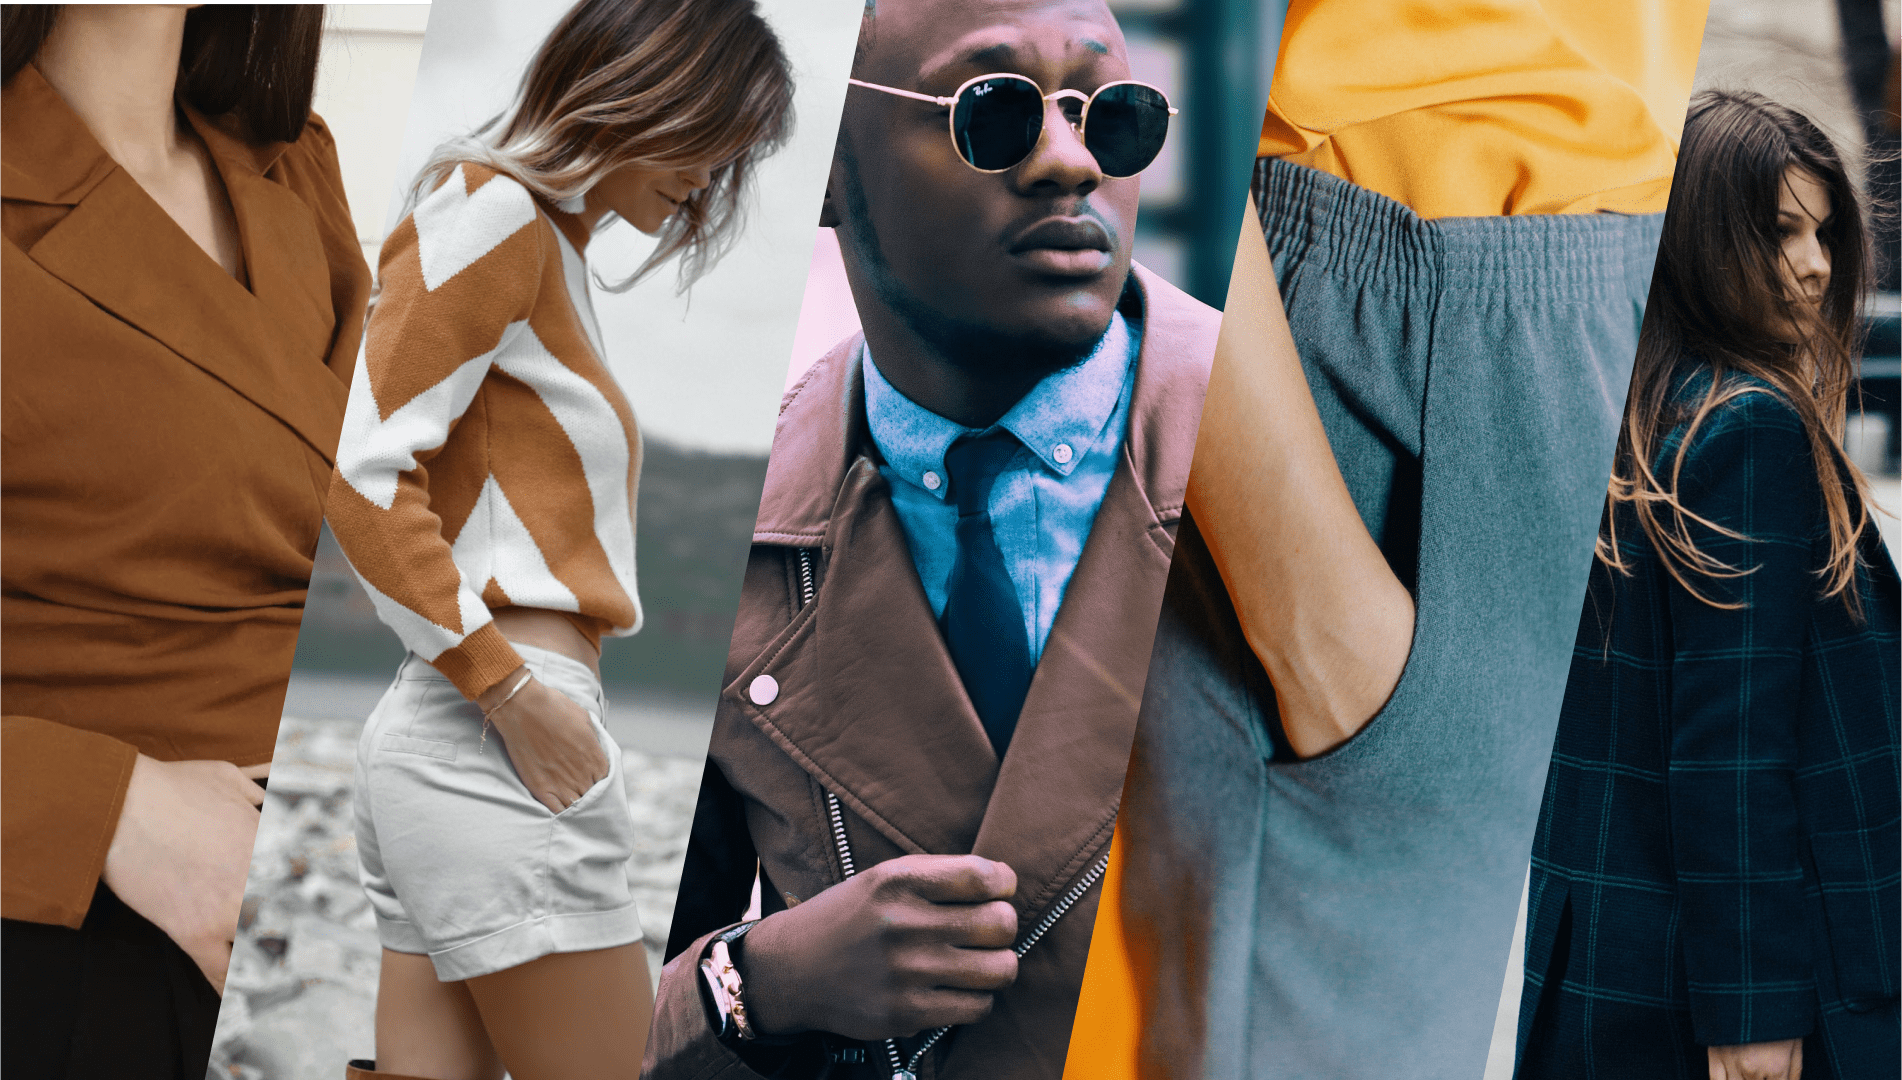
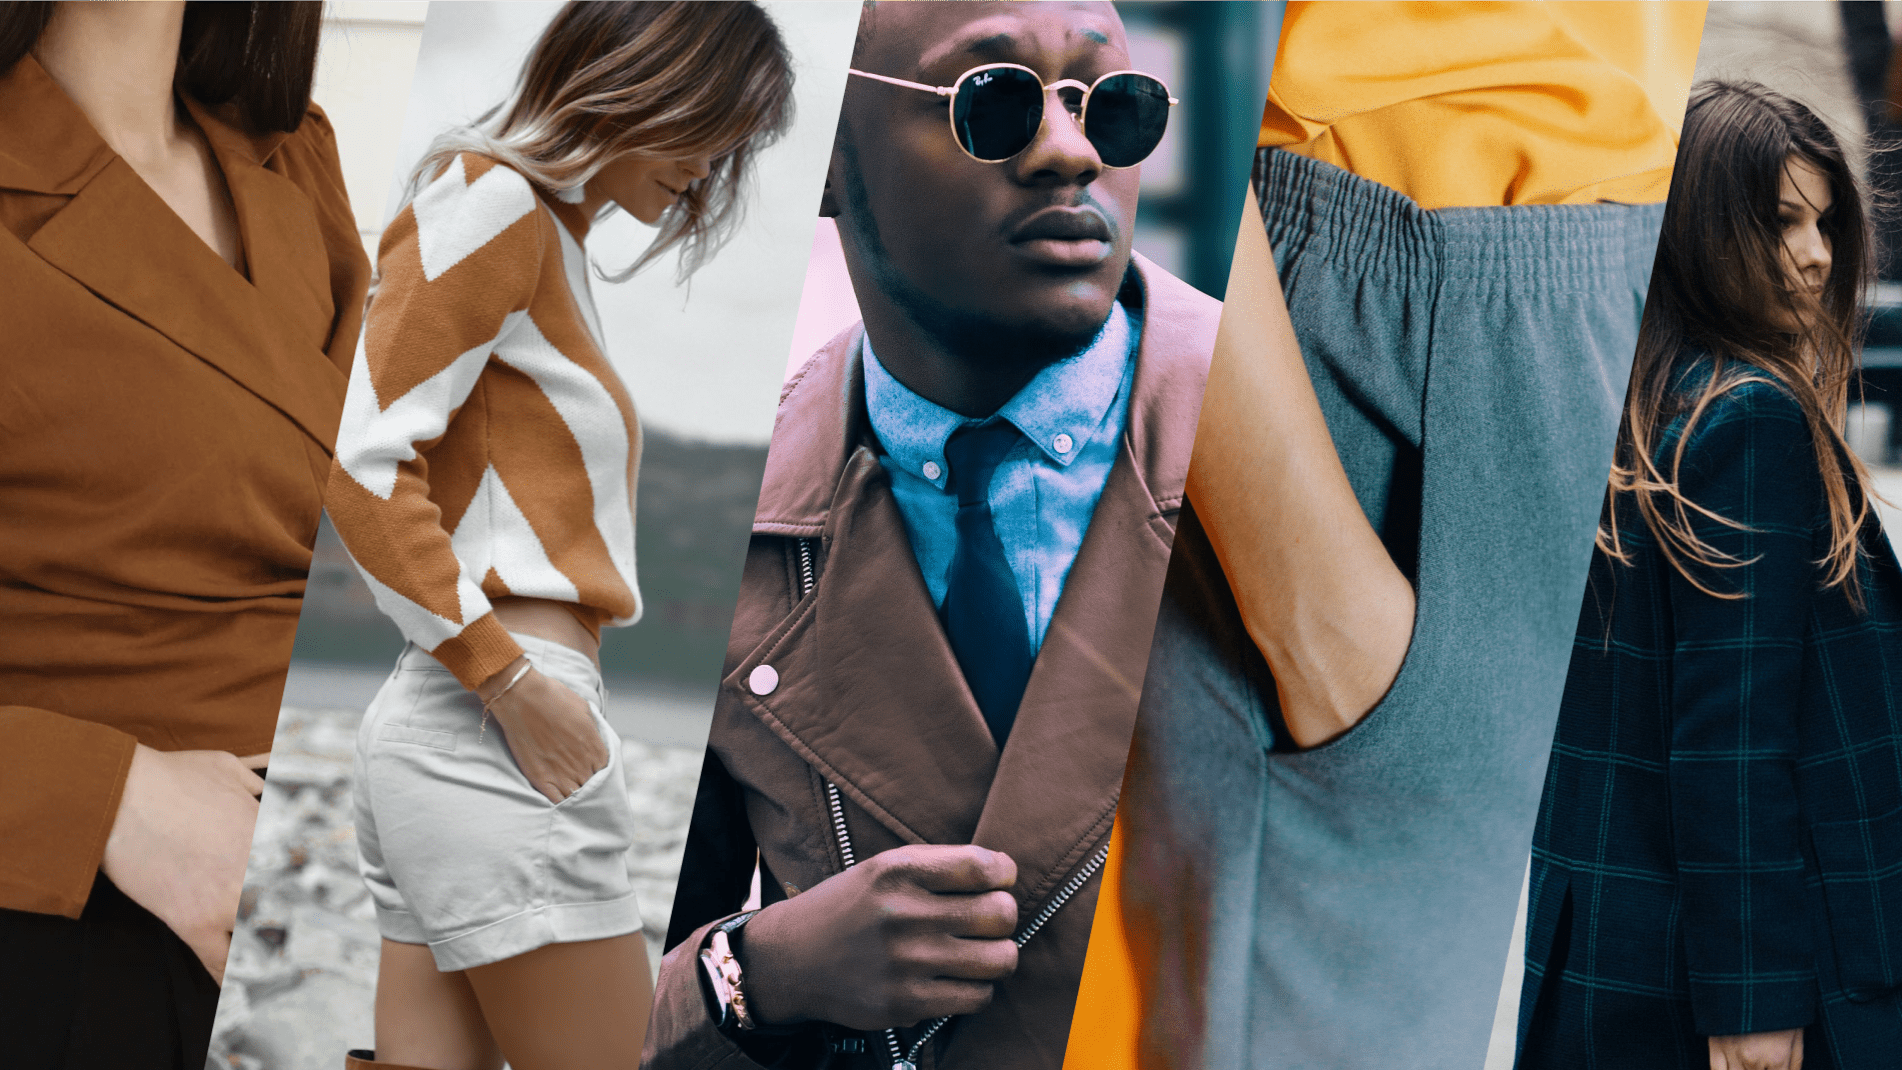
fixed background

diff --git a/src/App.css b/src/App.css
@@ -9,6 +9,7 @@
 }
 
 body {
+  background: #000;
   background: linear-gradient(0deg, rgba(0, 0, 0, 0.44), rgba(0, 0, 0, 0.44)), url(media/Backgroundcollage.png);
   background-position-x: center;
   background-size: cover;
@@ -172,6 +173,19 @@ body {
   position: fixed;
   top: 0;
   z-index: 1;
+  animation: slide 500ms ease-in;
+}
+
+@keyframes slide {
+  10% {
+    transform: translateY(-5em);
+    opacity: 0;
+  } 50% {
+    opacity: 0.5;
+  } 100% {
+    transform: translateY(0em);
+    opacity: 1;
+  }
 }
 
 .Nav {
@@ -250,12 +264,23 @@ body {
   color: #fff;
   font-size: 4em;
   text-align: center;
+  animation: fadewithtransform 500ms ease-in;
+}
+@keyframes fadewithtransform{
+  from{
+    transform: translateX(-2em);
+    opacity: 0;
+  } to {
+    transform: translateX(0);
+    opacity: 1 ;
+  }
 }
 
 .Hero_subtext button h3 {
   font-family: Poppins;
   font-size: 2em;
 }
+
 
 .Hero_subtext h3 {
   font-family: Poppins;
@@ -278,6 +303,15 @@ body {
   background: #fff;
   cursor: pointer;
   min-width: 22em;
+  animation: fade 500ms ease;
+}
+
+@keyframes fade{
+  from{
+    opacity: 0;
+  } to {
+    opacity: 1 ;
+  }
 }
 
 .Hero_subtext .button-content {

diff --git a/src/App.js b/src/App.js
@@ -1,15 +1,9 @@
-import { useState } from "react";
+// import { useState } from "react";
 import "./App.css";
 import "./queries.css"
 import Navigation from "./Navigation"
 
 function App() {
-
-  const [scrolled, setScrolled ] = useState(false);
-
-  const handleScroll=()=>{
-    setScrolled(!scrolled);
-  }
 
   return (
     <div className="App">
